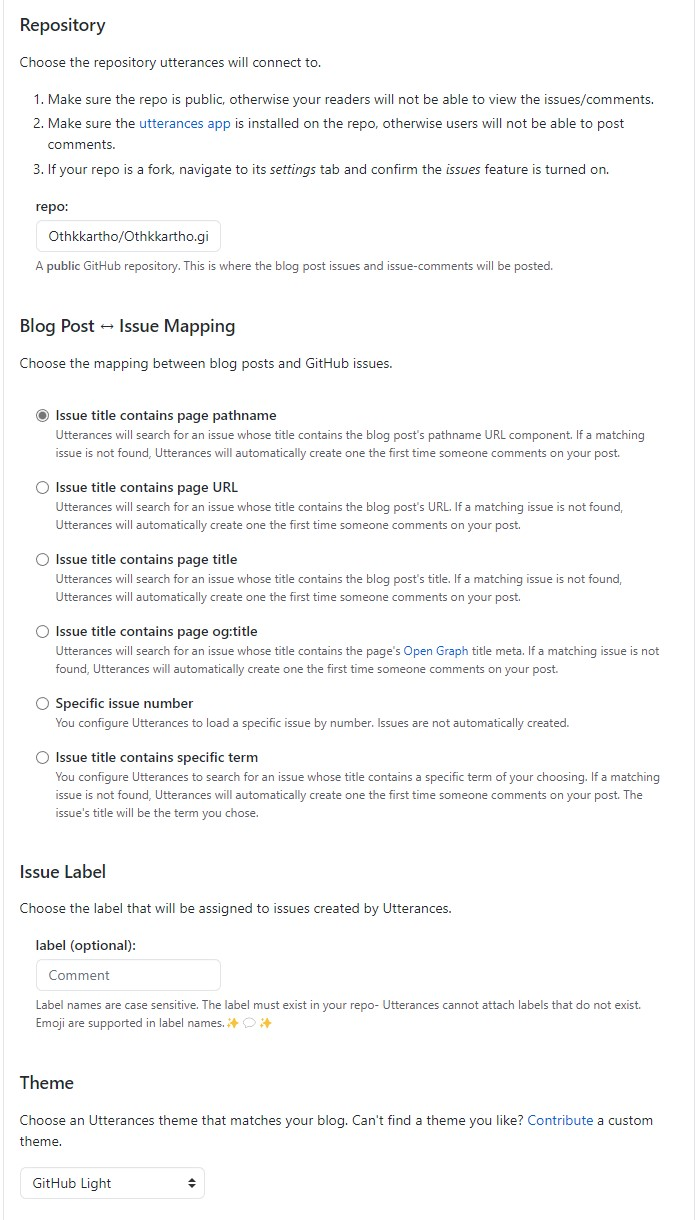
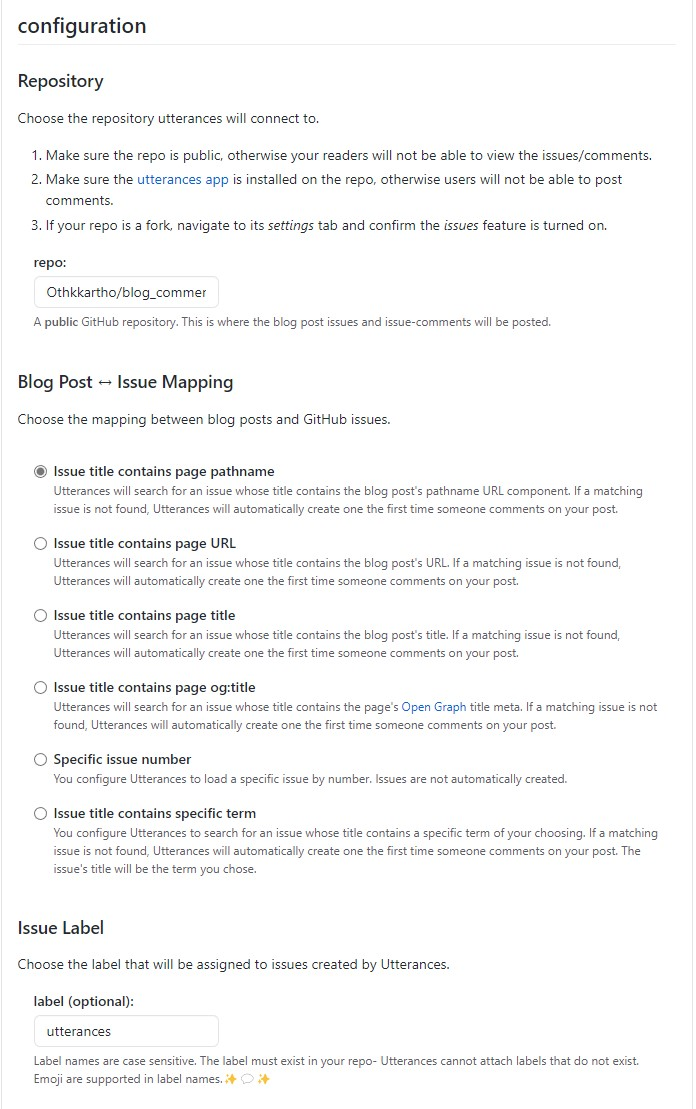
블로그 제작 포스트 작성 중

diff --git a/_layouts/post.md b/_layouts/post.md
@@ -21,7 +21,7 @@ layout: default
 
 {% if site.data.conf.posts.comments.enable and page.comments_disable != true %}
   <script src="https://utteranc.es/client.js"
-        repo="Othkkartho/Othkkartho.github.io"
+        repo="Othkkartho/blog_comment"
         issue-term="pathname"
         label="utterances"
         theme="github-light"
